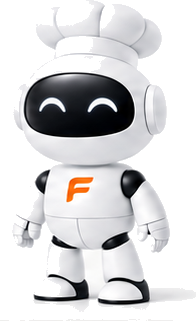
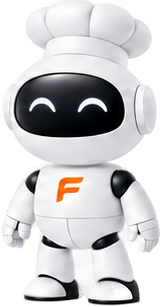
fix(brand): cutout limpo do mascote (ML matting) + mascote direto no laranja
O mascote tinha franja/halo e o chapéu de chef recortado errado em fundo
colorido — recorte branco-no-branco que ferramentas determinísticas não
resolvem. Gerei um cutout limpo com matting por ML (u2net/rembg): mascote
inteiro, chapéu intacto, sem franja nem sombra.

- foocci-mascot-cutout.png agora é o cutout limpo (corrige automaticamente
  o dashboard "Foocci em ação" e o MascotHostScene, que já usavam esse asset).
- Login: o mascote vai DIRETO no laranja, sem card, centralizado, com uma
  sombra suave de apoio. No mobile, badge laranja (mascote branco precisa de
  fundo colorido pra aparecer). Verificado no render real, desktop e mobile.

Claude-Session: https://claude.ai/code/session_01GHy92Lvi38WwsBSMr7ocxU

diff --git a/src/app/login/page.tsx b/src/app/login/page.tsx
@@ -122,18 +122,16 @@ function LoginForm() {
             />
           </div>
 
-          {/* Mascot in a clean white card — the card matches the mascot's own
-              light background, so there's no transparency fringe/halo. */}
-          <div className="mt-10 rounded-3xl bg-white p-5 shadow-2xl ring-1 ring-black/5">
-            <Image
-              src="/brand/foocci/foocci-mascot.png"
-              alt=""
-              aria-hidden
-              width={196}
-              height={321}
-              className="h-44 w-auto"
-            />
-          </div>
+          {/* Clean ML-matted cutout — sits directly on the orange, no card,
+              with a soft grounding shadow. */}
+          <Image
+            src="/brand/foocci/foocci-mascot-cutout.png"
+            alt=""
+            aria-hidden
+            width={162}
+            height={307}
+            className="mt-8 h-52 w-auto drop-shadow-[0_18px_28px_rgba(0,0,0,0.22)]"
+          />
 
           <h2 className="mt-9 max-w-sm text-[28px] font-bold leading-tight tracking-tight text-white">
             O motor de receita do seu restaurante.
@@ -158,8 +156,9 @@ function LoginForm() {
         <div className="w-full max-w-sm">
           {/* Brand lockup — shown on mobile (the panel is hidden there) */}
           <div className="mb-8 flex flex-col items-center lg:hidden">
-            <span className="mb-4 inline-flex h-24 w-24 items-center justify-center rounded-2xl bg-white shadow-md ring-1 ring-black/5">
-              <Image src="/brand/foocci/foocci-mascot.png" alt="" aria-hidden width={196} height={321} className="h-20 w-auto" />
+            {/* Orange badge so the (white) mascot reads on the white form area. */}
+            <span className="mb-4 inline-flex h-24 w-24 items-center justify-center overflow-hidden rounded-2xl bg-gradient-to-br from-brand-500 to-brand-600 shadow-md">
+              <Image src="/brand/foocci/foocci-mascot-cutout.png" alt="" aria-hidden width={162} height={307} className="h-[5.5rem] w-auto" />
             </span>
             <Image src="/brand/foocci/foocci-wordmark.png" alt="Foocci" width={200} height={50} priority className="h-7 w-auto" />
           </div>
